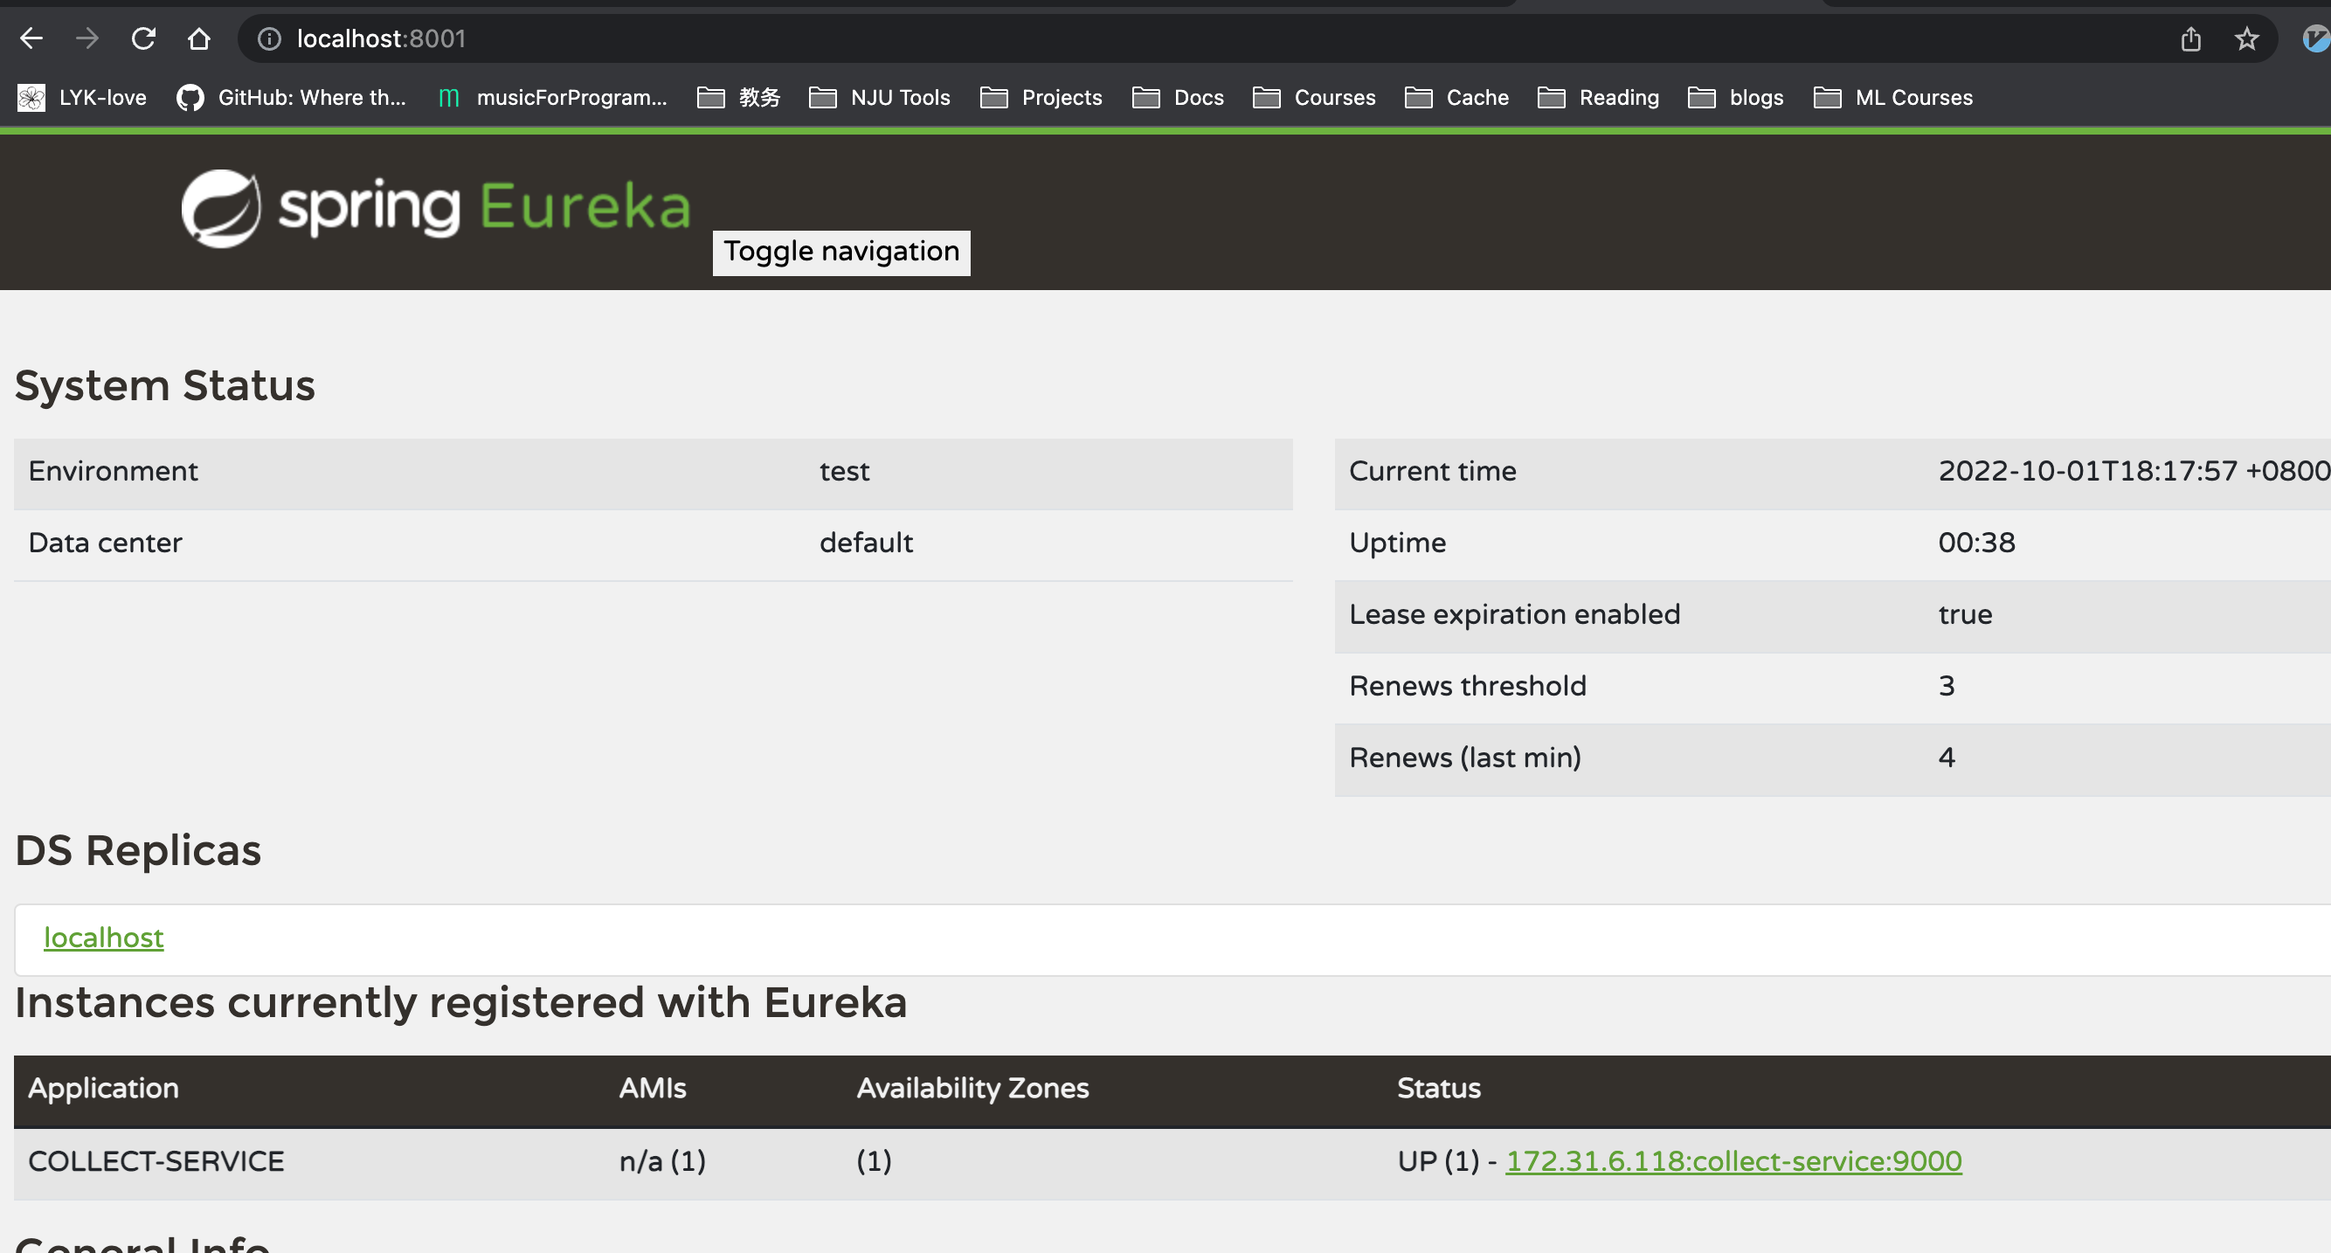
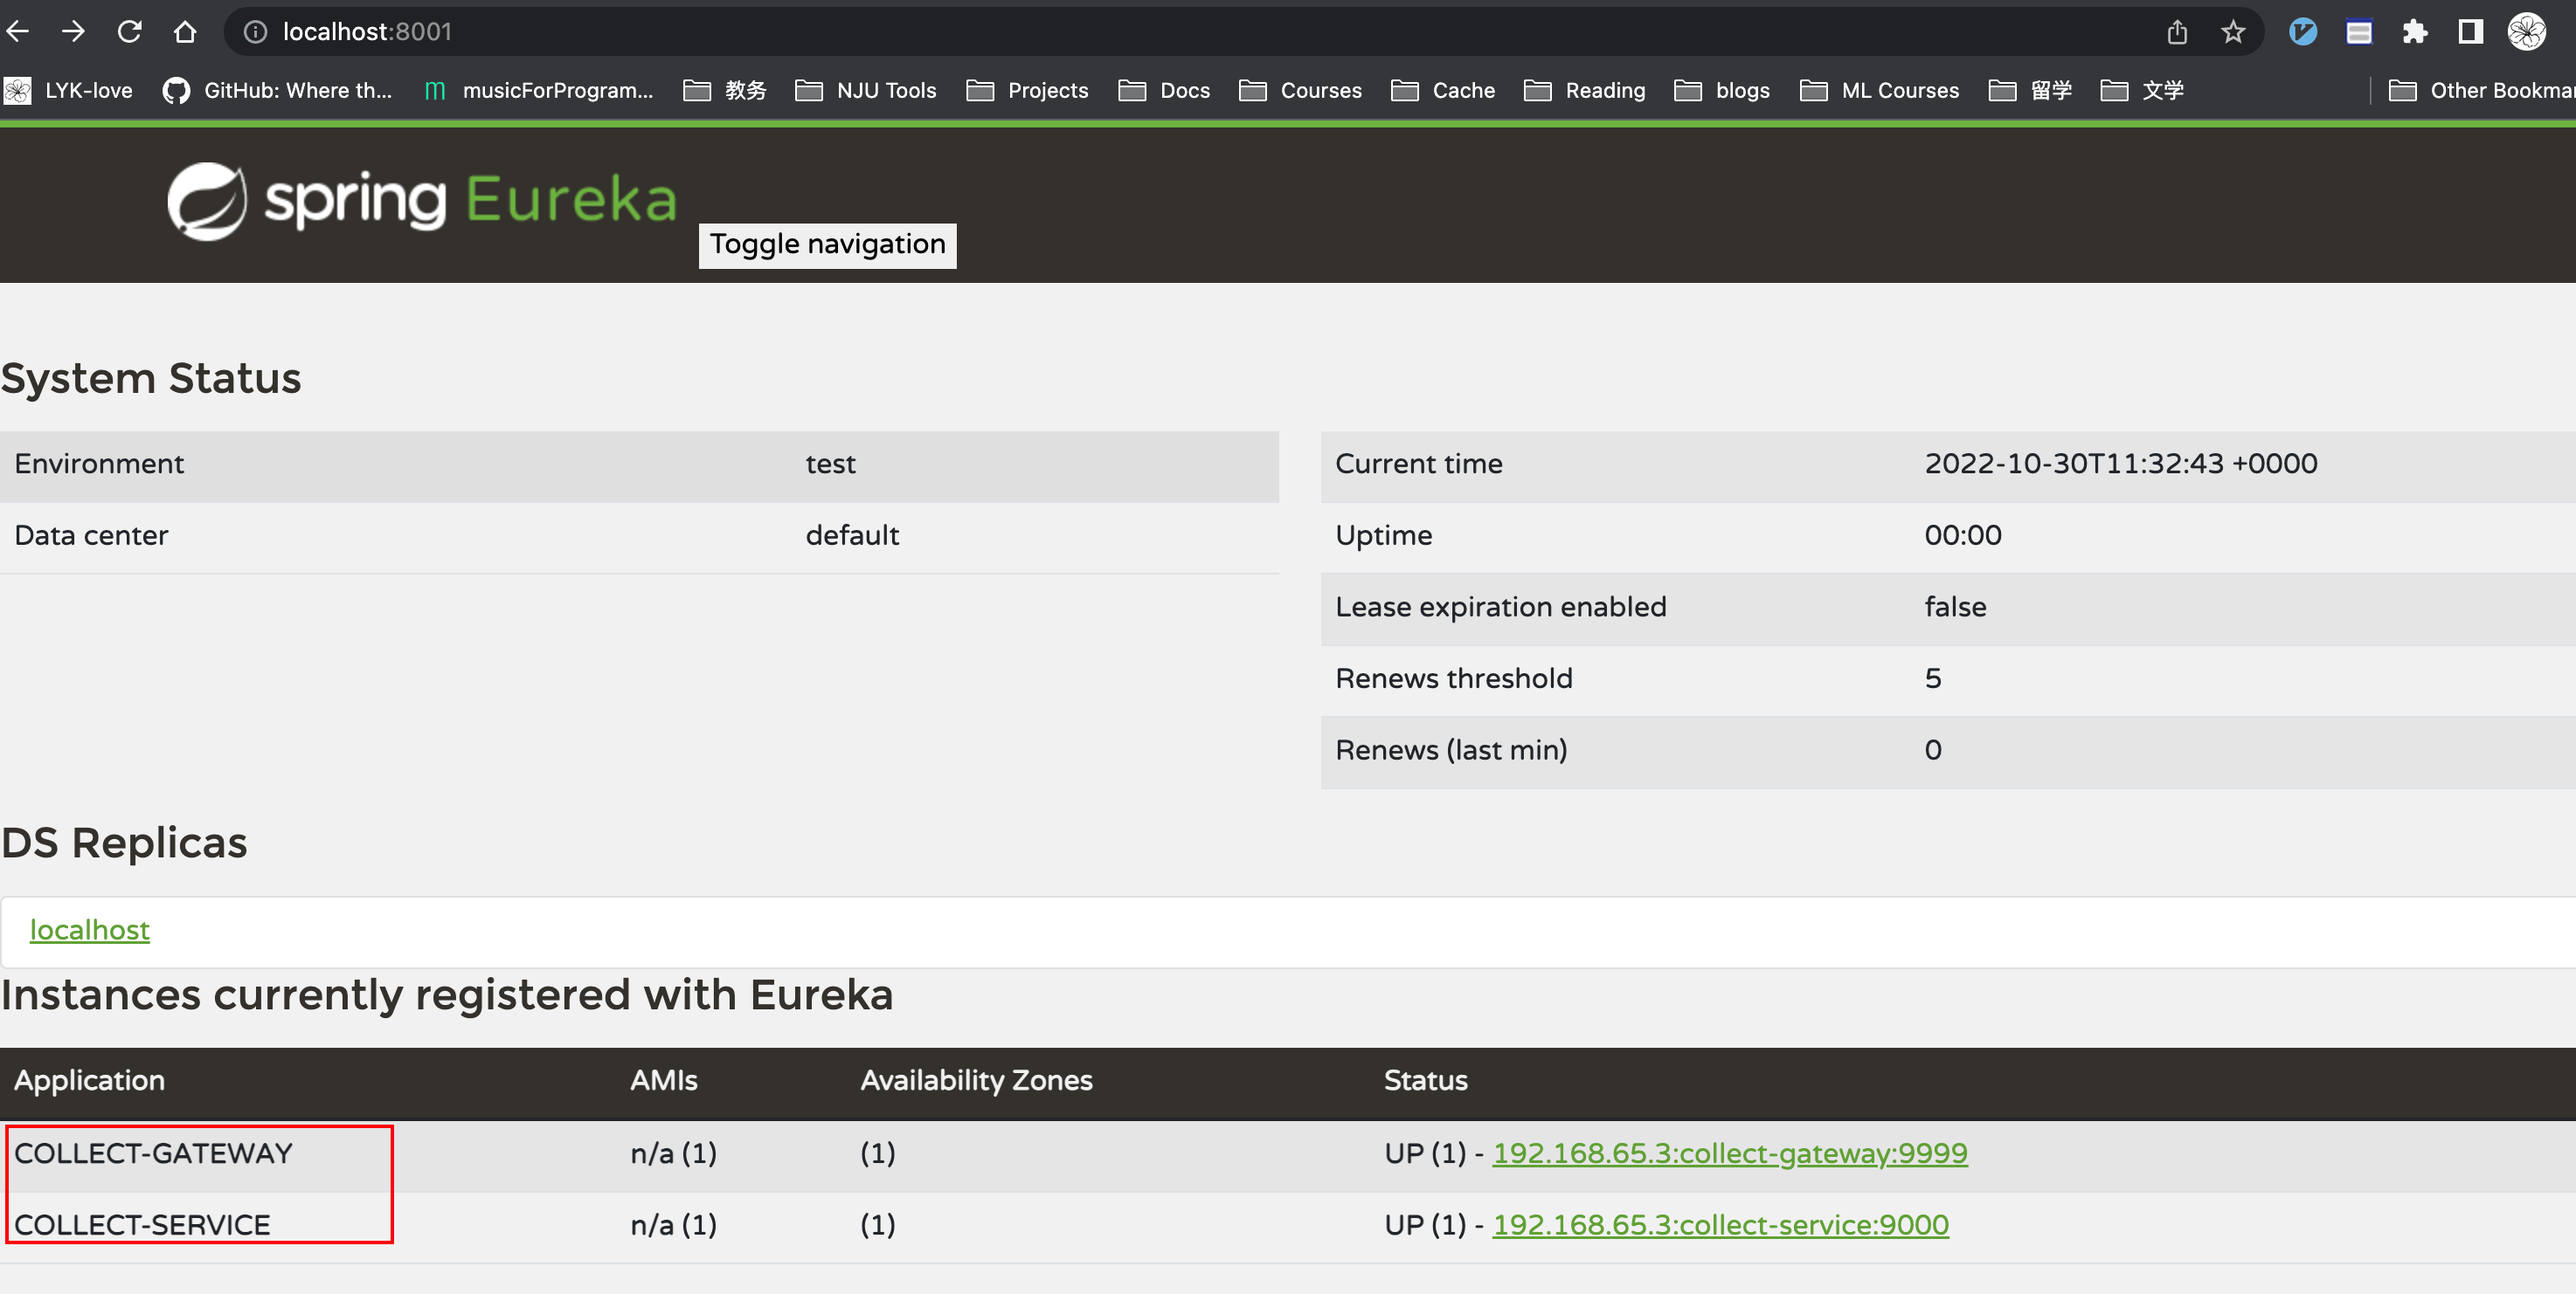
DS_Store Project Config eureka-test-locally eureka-test-online

diff --git a/Project Config.md b/Project Config.md
@@ -31,6 +31,8 @@
 
 * 已经完成CICD, 但没有配置集群. 因为要等到微服务做完后配置集群才有意义
 * 后端CICD比较快, 大概5min内就能出结果.
+* 我添加了一个shell脚本`testLocally.sh`来进行简单的本地部署测试, 它的工作流是Jenkins的简化版,  会build jar包,build镜像然后在本地运行容器. 可以本地运行该脚本来进行测试
+  * 由于Zull和collect-service都将自身注册到Eureka, 因此无论是本地启动jar包, 还是本地启动容器, 都应该先启动Eureka,再启动其余服务
 
 ## collect-service
 
@@ -72,9 +74,9 @@
 
 ![collect-test-online](./assets/collect-test-online.png)
 
-## eureka
+## Eureka
 
-* eureka监听8001端口, 映射到主机的8001端口
+* Eureka监听**8001**端口, 映射到主机的**8001**端口
 
   ```
   # eureka的配置文件
@@ -88,21 +90,72 @@
 
 ### Test
 
+如果其他服务也**正常**启动并成功注册到Eureka, 那么可以在Eureka的网页上看到被注册的服务
+
 #### Online
 
 访问:http://124.222.135.47:8001/
 
 ![eureka-test-online](./assets/eureka-test-online.png)
 
+
+
 #### Locally
 
 访问localhost8001
 
-<img src="./assets/eureka-test-locally.png" alt="eureka-test-locally" style="zoom:67%;" />
+![eureka-test-locally](/Users/lyk/Projects/MyOfficialProjects/VolatileReborn/Docs-VolatileReborn/assets/eureka-test-locally.png)
+
+
+
+## Zuul
+
+* Zuul监听**9999**端口, 映射到主机的**9999**端口(事实上我使用了Docker的host网络, 并没有进行任何端口映射, 直接就是9999)
+
+  ```yaml
+  # Zull的配置文件
+  server:
+    port: 9999
+  
+  spring:
+    application:
+      name: collect-gateway
+  
+  eureka:
+    client:
+      service-url:
+        defaultZone: http://localhost:8001/eureka/
+    instance:
+      prefer-ip-address: true
+  
+  zuul:
+    routes:
+      collect-service: /**
+  
+  hystrix:
+    command:
+      default:
+        execution:
+          isolation:
+            thread:
+              timeoutInMilliseconds: 6000 # 熔断超时时长：6000ms
+  
+  ribbon:
+    ConnectTimeout: 500 # ribbon链接超时时长
+    ReadTimeout: 2000 # ribbon读取超时时长
+    MaxAutoRetries: 0  # 当前服务重试次数
+    MaxAutoRetriesNextServer: 1 # 切换服务重试次数
+    OkToRetryOnAllOperations: false # 是否对所有的请求方式都重试，只对get请求重试
+  ```
 
 
 
 
+### Test
+
+### Online
+
+### Locally
 
 # Accounts
 
